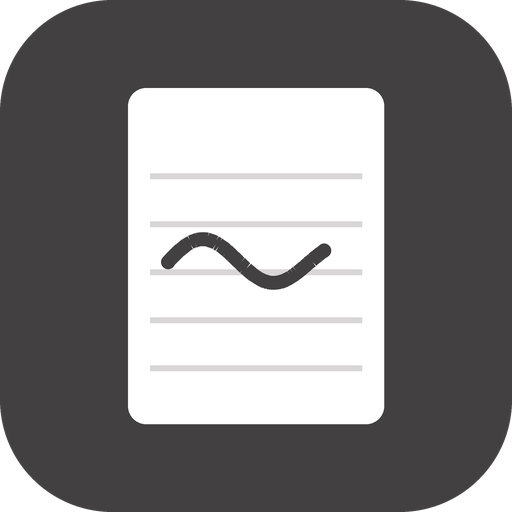
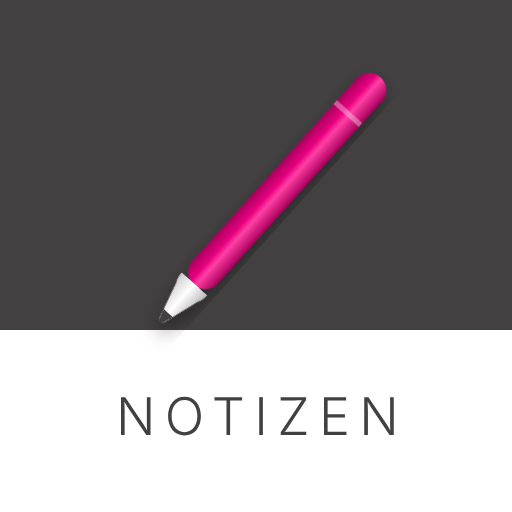
Version 0.5.3: neues App-Symbol (Magenta-Stift, Anthrazit/Weiß, NOTIZEN)
Claude-Session: https://claude.ai/code/session_01DZueZqnrKMfrcQ73BBExTy

diff --git a/sw.js b/sw.js
@@ -1,6 +1,6 @@
 // Service Worker: hält die App offline verfügbar. Bei jeder neuen Version VERSION erhöhen
 // (gleiche Nummer wie in js/util.js), sonst bekommen installierte Geräte die Änderung nicht.
-const VERSION = '0.5.2';
+const VERSION = '0.5.3';
 const CACHE = 'notizbuch-' + VERSION;
 const DATEIEN = [
   './', 'index.html', 'app.css', 'manifest.webmanifest',
@@ -21,7 +21,7 @@ const DATEIEN = [
   'vendor/pdfjs/standard_fonts/LiberationSans-BoldItalic.ttf',
   'vendor/pdfjs/standard_fonts/LiberationSans-Italic.ttf',
   'vendor/pdfjs/standard_fonts/LiberationSans-Regular.ttf',
-  'icons/icon.svg', 'icons/icon-192.png', 'icons/icon-512.png', 'icons/icon-maskable-512.png', 'icons/apple-touch-icon.png', 'icons/logo-walz.svg',
+  'icons/favicon-64.png', 'icons/icon-192.png', 'icons/icon-512.png', 'icons/icon-maskable-512.png', 'icons/apple-touch-icon.png', 'icons/logo-walz.svg',
 ];
 
 self.addEventListener('install', e => {

diff --git a/index.html b/index.html
@@ -10,7 +10,7 @@
 <meta name="apple-mobile-web-app-status-bar-style" content="black">
 <meta name="apple-mobile-web-app-title" content="Notizbuch">
 <link rel="manifest" href="manifest.webmanifest">
-<link rel="icon" href="icons/icon.svg" type="image/svg+xml">
+<link rel="icon" href="icons/favicon-64.png" type="image/png">
 <link rel="apple-touch-icon" href="icons/apple-touch-icon.png">
 <link rel="stylesheet" href="app.css">
 <script type="module" src="js/main.js"></script>

diff --git a/js/util.js b/js/util.js
@@ -1,5 +1,5 @@
 // Kleine Helfer, überall gebraucht.
-export const VERSION = '0.5.2';
+export const VERSION = '0.5.3';
 
 export const uid = () =>
   (crypto.randomUUID ? crypto.randomUUID() : Date.now().toString(36) + Math.random().toString(36).slice(2, 12));
